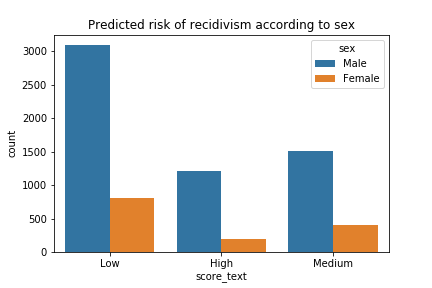
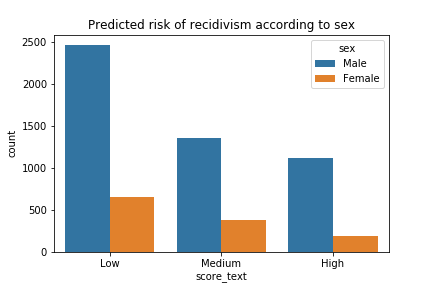
Why binary tho?

diff --git a/report/Report.tex b/report/Report.tex
@@ -80,7 +80,7 @@
 	\section{Data} \label{data}
 %	\textbf{TODO: \\ Data kan kort introduceres i indledningen \\ Lav etisk diskussion om opbevaring af data samt privacy issues}
 	
-	\noindent To analyse the efficacy of using bias correction to remove discrimination among races in the American justice system, the modified COMAS recidivism dataset from ProPublica has been used. \\
+	\noindent To analyse the efficacy of using bias correction to remove discrimination among races in the American justice system, the modified COMAS recidivism dataset from ProPublica has been used. An important note on the further work in this report on the dataset is that the output variable \texttt{score\_text} has been turned into a binary vector. This method was also used by ProPublica during their analysis and since the bias correction methods only work on binary data, turning the output into a binary vector was logical. The binarization was performed by merging the \texttt{Medium} and \texttt{High} risk of recidivism into zeros and the \texttt{Low} risk of recidivism into ones, as has been in the ProPublica analysis. \\
 	A general overview of the dataset and how it came to be as well as the variables used for the classifier is given in \ref{dataDescription}. The data and variables have not been properly explained to any extent in examined literature, so \ref{dataExamination} will cover the meaning of all 53 variables of the dataset to remove ambiguity and set a common ground from which to base the future analysis. Lastly, \ref{dataVisuals} will show important visualizations of features of the dataset to cover which of the variables are most likely to contain biases that will be explored further in later sections.
 	
 	\subsection{Description of Data} \label{dataDescription}
@@ -204,7 +204,7 @@
 	
 	
 	
-	\subsection{Data ethicality}
+	\subsection{Data Origin}
 	The COMPAS dataset as well as ProPublica's expanded data and analysis of this data is freely available from their public GitHub repository. As such, the data is not stored safely. This is also true for the variables of the data such as age, full name and number of previous felonies, which give ample opportunity to identify people who have recidivated, leading to compromise of their personal data. This is not a concern though, as the data is collected from Florida, where public records are subject to the broad legislated public right of inspection. According to chapter 119 section 1 of the law of the State of Florida, 
 	\begin{displayquote}
 		"It is the policy of this state that all state, county, and municipal records are open for personal inspection and copying by any person. Providing access to public records is a duty of each agency." \cite{floridaLaw}
@@ -219,7 +219,7 @@
 	\subsection{Binary Classifier}\label{Feed-forward neural}
 	%initialization schemes
 	\subsubsection{Feed-forward Neural Network}
-	Feed-forward neural networks (FFNN) are the simplest form of a neural network. Information flow in a feed-forward neural is one directional which means that the network has an input layer, and information flow from these nodes through the hidden layers unto the output layer. The main purpose of a FFNN is to approximate a function. In this project $ y = f^*(x) $ maps an input $ \mathbf x $ to a category $ \mathbf y $. The FFNN is thereby a classifier, which goal is to determine the recidvism risk of a person given the input variable $ \mathbf x $. The input variable $ \mathbf x $ contains \textbf{TODO:}. The categories of $ \mathbf y $ is either 0 or 1, which corresponds to the classifier classifying a person as either low or medium/high risk of recidivism. Hence, this is a binary classifier which constructs a mapping $ \mathbf y = f(\mathbf x \ ; \mathbf w) $. The goal is to learn the weights that most efficiently approximate the function $ f^* $ through supervised learning. The binary classifier in this project has an input layer, three hidden layers and an output layer. \cite{dl}
+	Feed-Forward neural networks (FFNN) are the simplest type of neural network. Information flow in a feed-forward neural is one-directional, which means that the network has an input layer, and information flow from these nodes through the hidden layers unto the output layer. The main purpose of a FFNN is to approximate a function. In this project $ y = f^*(x) $ maps an input $ \mathbf x $ to a category $ \mathbf y $. The FFNN is thereby a classifier, the goal of which is to determine the recidivism risk of a person given the input $ \mathbf x $. $ \mathbf x $ contains \textbf{TODO:}. The categories of $ \mathbf y $ are either 0 or 1, which corresponds to the classifier classifying a person as either low or medium/high risk of recidivism. Hence, this is a binary classifier, which constructs a mapping $ \mathbf y = f(\mathbf x \ ; \mathbf w) $. The goal is to learn the weights that most efficiently approximate the function $ f^* $ through supervised learning. The binary classifier in this project has an input layer, three hidden layers and an output layer. \cite{dl}
 	
 	\begin{figure}[H]
 		\centering
